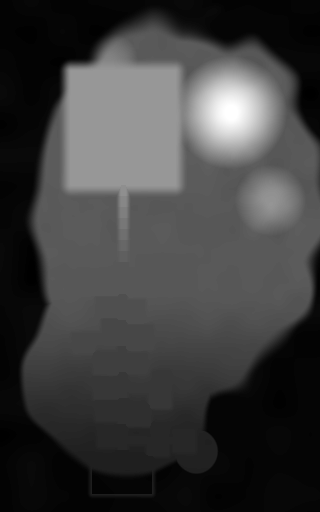
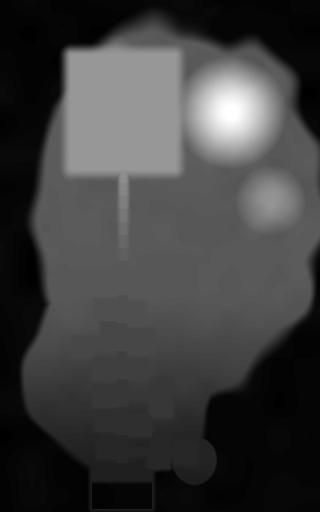
fix(foot-of-the-mountain): the generator mirrors the packing ring cell; the shore meets the quay

diff --git a/campaigns/foot-of-the-mountain/design/generator/plan.py b/campaigns/foot-of-the-mountain/design/generator/plan.py
@@ -77,14 +77,15 @@ def seam(a, b, face, at, meets, kind, form):
     edges.append({"a": a, "b": b, "class": cls, "id": eid})
     ax, az, adx, adz, _ = pos[a]
     (bdx, bdz), bf = ext(b)
+    # the packing leaves the one shared ring cell between two boxes
     if face == "south":
-        p = (ax + at - meets, az + adz)
+        p = (ax + at - meets, az + adz + 1)
     elif face == "north":
-        p = (ax + at - meets, az - bdz)
+        p = (ax + at - meets, az - bdz - 1)
     elif face == "east":
-        p = (ax + adx, az + at - meets)
+        p = (ax + adx + 1, az + at - meets)
     else:
-        p = (ax - bdx, az + at - meets)
+        p = (ax - bdx - 1, az + at - meets)
     pos[b] = (p[0], p[1], bdx, bdz, bf)
     return eid
 
@@ -208,7 +209,7 @@ for k in range(1, 9):
         # the landing is above the ramp: landing (a) south face -> ramp (b)
         (dx, dz), _ = ext(top)
         rx, rz = pos[ramp][0], pos[ramp][1]
-        pos[top] = (rx, rz - dz, dx, dz, floor)
+        pos[top] = (rx, rz - dz - 1, dx, dz, floor)
         eid = "edge/" + top.split("/")[1] + "--" + ramp.split("/")[1]
         seams.append({"edge": eid, "face": "south", "at": 0, "meets": 0,
                       "opening": {"width": ROAD_W, "height": 4},
@@ -226,7 +227,7 @@ box("node/castle", (104, 114), 124, OPEN(52), "the castle plot",
     ])
 (cdx, cdz), _ = ext("node/castle")
 rx, rz = pos["node/road-8"][0], pos["node/road-8"][1]
-pos["node/castle"] = (rx - 50, rz - cdz, cdx, cdz, 124)
+pos["node/castle"] = (rx - 50, rz - cdz - 1, cdx, cdz, 124)
 seams.append({"edge": "edge/castle--road-8", "face": "south", "at": 50,
               "meets": 0, "opening": {"width": ROAD_W, "height": 4},
               "stair_in": "node/road-8",
@@ -406,14 +407,14 @@ def land(x, z):
     wob = (vnoise(x, z, 37, 1) - 0.5) * 0.18
     e = min(ellipse(x, z, 178, 215, 150, 205),
             ellipse(x, z, 122, 372, 100, 110),
-            ellipse(x, z, 196, 452, 22, 24))
+            ellipse(x, z, 194, 462, 24, 26))
     return smooth((1.0 - (e + wob)) / 0.10)
 
 
 def base_height(x, z):
     m = land(x, z)
     # the town slope: 92 at the mountain's foot, 63 at the shore
-    slope = 63 + 29 * smooth((470 - z) / 200)
+    slope = 63 + 29 * smooth((482 - z) / 212)
     # the mountain: a massif north and east of the castle
     peak = 0.0
     for cx, cz, r, hgt in ((230, 112, 85, 112), (150, 118, 70, 74),
